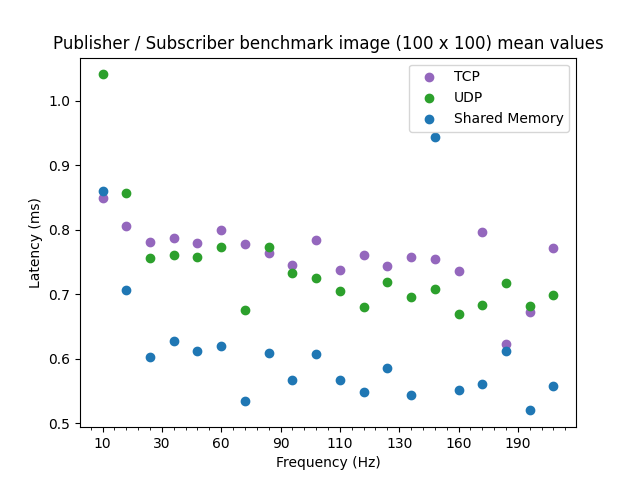
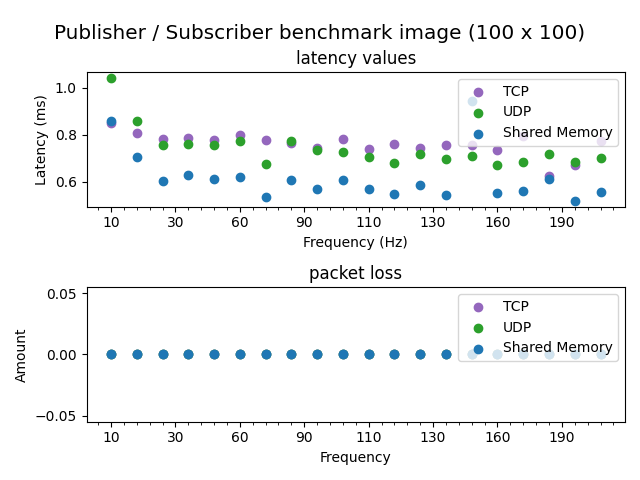
regenerate graphs

diff --git a/graph/src/generate.py b/graph/src/generate.py
@@ -4,6 +4,7 @@ from glob import glob
 import pandas as pd
 import matplotlib
 import matplotlib.pyplot as plt
+import numpy as np
 
 if len(sys.argv) < 2: # argv[1]
     print("Please provide the machine name as an argument (folder name under data/)")
@@ -20,38 +21,60 @@ image_height = sys.argv[2]
 image_width = sys.argv[3]
 folder = f"data/{machine_name}/{image_height}_{image_width}"
 
-fig, ax = plt.subplots()
-ax.set_title(f'Publisher / Subscriber benchmark image ({image_height} x {image_width}) mean values')
-ax.set_xlabel('Frequency (Hz)')
-ax.set_ylabel('Latency (ms)')
-ax.xaxis.set_minor_locator(matplotlib.ticker.AutoMinorLocator())
-ax.xaxis.set_major_locator(plt.MaxNLocator())
+fig, (latency, packet_loss) = plt.subplots(2)
+st = fig.suptitle(f'Publisher / Subscriber benchmark image ({image_height} x {image_width})', fontsize="x-large")
+
+latency.set_title('latency values')
+latency.set_xlabel('Frequency (Hz)')
+latency.set_ylabel('Latency (ms)')
+latency.xaxis.set_minor_locator(matplotlib.ticker.AutoMinorLocator())
+latency.xaxis.set_major_locator(plt.MaxNLocator())
+
+packet_loss.set_title('packet loss')
+packet_loss.set_xlabel('Frequency')
+packet_loss.set_ylabel('Amount')
+packet_loss.xaxis.set_minor_locator(matplotlib.ticker.AutoMinorLocator())
+packet_loss.xaxis.set_major_locator(plt.MaxNLocator())
 
 # https://matplotlib.org/stable/tutorials/introductory/quick_start.html#parts-of-a-figure
 def addLegend(pattern: str, transport: str, color: str):
     filepath = glob(pattern)
     filepath.sort(key=lambda x: int(re.findall("\\d+", re.split(r"\/|\\", x)[-1])[0]))
     # data: [list(int, float)] = []
-    x: list[int] = []
-    y: list[float] = []
+    frequencies: list[int] = []
+    latencies: list[float] = []
+    packetLoss: list[int] = []
     err: list[float] = []
     for file in filepath:
         [freq, height, width] = re.findall("\\d+", re.split(r"\/|\\", file)[-1])
         df = pd.read_csv(file, engine="pyarrow")
-        # data.append((freq, df["latency"].mean()))
-        x.append(freq)
-        y.append(df["latency"].mean())
+        frequencies.append(freq)
+        latencies.append(df["latency"].mean())
+
+        # https://stackoverflow.com/a/69731291
+        # Calculating packet loss
+        condition = df["frame number"].eq(df["frame number"].shift()+1)
+        elseConditionReturnValue = df["frame number"]-df["frame number"].shift()
+        arr = np.where(condition, 'True' , elseConditionReturnValue)
+        packetLoss.append(sum(map(lambda n: int(float(n)), arr[arr != "True"][1:])))
+        
         err.append(df["latency"].std())
 
     # fmt='none' to prevent the lines from connecting
-    ax.scatter(x, y, color=color, label=transport)
+    latency.scatter(frequencies, latencies, color=color, label=transport)
+    packet_loss.scatter(frequencies, packetLoss, color=color, label=transport)
     # ax.errorbar(x, y, yerr=err, fmt='o', label=transport, ecolor=color)
 
 # print(folder)
 addLegend(f"{folder}/*/*TCP*.csv", "TCP", "tab:purple")
 addLegend(f"{folder}/*/*UDP*.csv", "UDP", "tab:green")
 addLegend(f"{folder}/*/*SharedMemory*.csv", "Shared Memory", "tab:blue")
-ax.legend()
+
+latency.legend()
+packet_loss.legend()
+fig.tight_layout()
+st.set_y(0.95)
+fig.subplots_adjust(top=0.85)
 
 #                         height width
 fig.savefig(f'{machine_name}_{image_height}_{image_width}.png')

diff --git a/src/imagePub/ImagePublisher.cpp b/src/imagePub/ImagePublisher.cpp
@@ -274,7 +274,7 @@ void ImagePublisher::PubListener::on_publication_matched(
 
 void ImagePublisher::runPacketSizeVariable(int max_packet_size) {
     const int numSamples = cfgPtr_->getCam().numSamples_;
-    uint64_t tBeg = APP_TIME_CURRENT_MS;
+    uint64_t tBeg = APP_TIME_CURRENT_US;
     uint64_t tEnd = APP_TIME_CURRENT_MS;
     
     int frame_number = 1;
